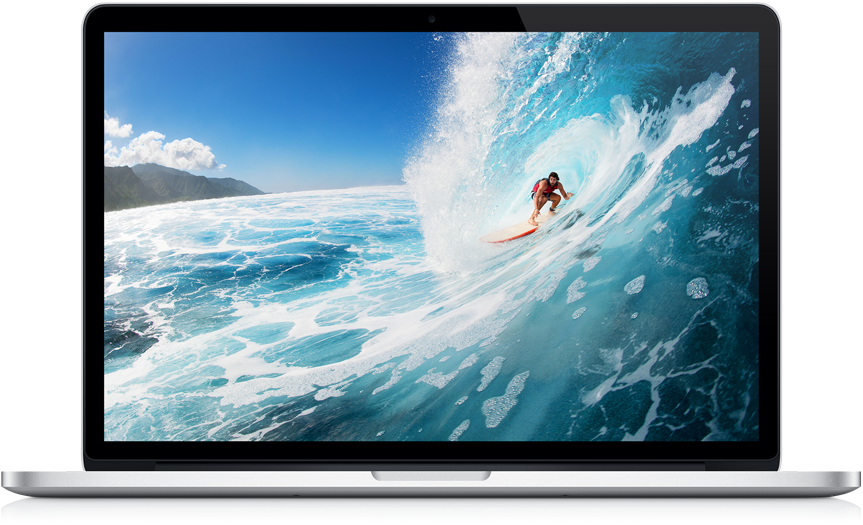
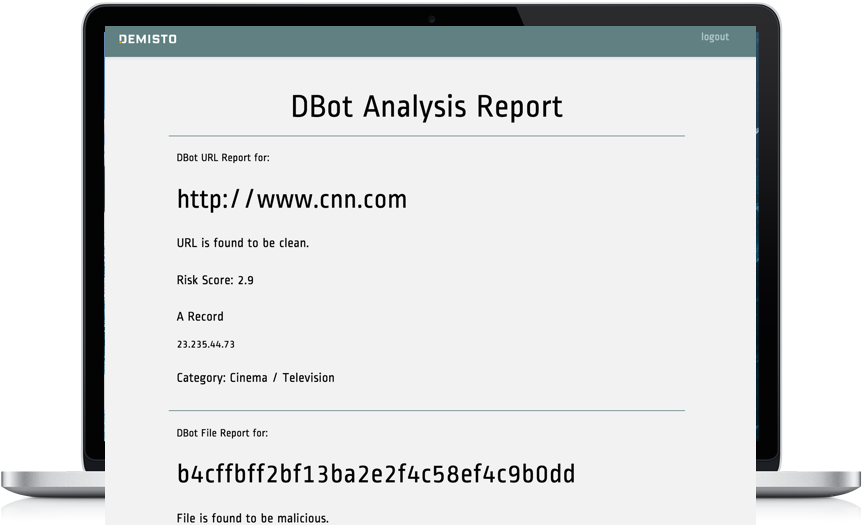
Changes to conf page to have a next step, next page to show confirmation, new screenshot, privacy page and legal. Also installed a new component twitter-bootstrap-wizard. Will use this to create a wizard.

diff --git a/static/master/js/modules/next.js b/static/master/js/modules/next.js
@@ -1,0 +1,94 @@
+(function ($) {
+  'use strict';
+  // Run this only on conf
+  if ($('#next').length) {
+    var regexChannelsMatched = [];
+    var channelsMatched = [];
+    var groupsMatched = [];
+    var allchecked = false;
+    var im = false;
+    $('#closelink').hide();
+
+    var updateChannelList = function() {
+      // update the channels Monitored
+      var mergedList = new Object();
+      var mergedArr = [];
+
+      for (var i = 0; channelsMatched && i<channelsMatched.length; i++) {
+        mergedList[channelsMatched[i]] = true;
+      }
+      for (var i = 0; groupsMatched && i<groupsMatched.length; i++) {
+        mergedList[groupsMatched[i]] = true;
+      }
+      for (var i = 0; regexChannelsMatched && i<regexChannelsMatched.length; i++) {
+        mergedList[regexChannelsMatched[i]] = true;
+      }
+
+      for (var k in mergedList) {
+        mergedArr.push(k);
+      }
+
+      if (allchecked) {
+        $('#channellist').html("<h2>All conversations are now being monitored.</h2>");
+      } else if (mergedArr.length > 0) {
+        $('#channellist').html("<h2>Channels Monitored</h2>");
+        $('#channellist').append(mergedArr.sort().join(", "));
+      } else {
+        $('#channellist').html("<p class='warning-text'>DBOT is not monitoring any conversations. Please <b>select channels</b> to monitor below\
+         or select <b>\'Monitor ALL conversations\'</b> above.</p>");
+      }
+
+
+    }
+
+
+    // Load the channels
+    // TODO - add fail handling
+    $.getJSON('/info', function(data) {
+      $('.ball-grid-pulse').hide();
+      $('#closelink').show();
+
+      for (var i=0; data.channels && i<data.channels.length; i++) {
+        if (data.channels[i].selected)
+          channelsMatched.push(data.channels[i].name)
+      }
+
+      for (var i=0; data.groups && i<data.groups.length; i++) {
+        if (data.groups[i].selected)
+          groupsMatched.push(data.groups[i].name)
+      }
+
+      allchecked = data.all;
+      im = data.im;
+
+      if (data.regexp) {
+        $.ajax({
+          type: 'POST',
+          url: '/match',
+          data: JSON.stringify({regexp: data.regexp}),
+          headers: {'X-XSRF-TOKEN': Cookies.get('XSRF')},
+          dataType: 'json',
+          contentType: 'application/json; charset=utf-8',
+          success: function(data){
+            // $('#regexpChannels').html('Channels Monitored: ' + data.join(', '));
+            regexChannelsMatched = data;
+            updateChannelList();
+          }
+        });
+      }
+
+      updateChannelList();
+
+
+    });
+
+    $.getJSON('/user', function(data) {
+
+      $('#realname').html(data.real_name);
+      $('#useremail').html(data.email);
+      $('#teamname').html('Team: ' + data.team_name);
+
+    });
+
+  }
+})(window.jQuery);

diff --git a/static/master/js/modules/details.js b/static/master/js/modules/details.js
@@ -708,7 +708,7 @@
             else {
               return(
                 <div>
-                DBot encountered an error while trying to serve your request. The issues has been reported and will be analyze.
+                DBot encountered an error while trying to serve your request. The issues has been reported and will be analyzed.
                 Please try to click the link again from Slack interface.
                 <hr></hr>
                 {this.state.errmsg}

diff --git a/static/master/less/components/topbar.less b/static/master/less/components/topbar.less
@@ -26,7 +26,7 @@
       a {
         line-height: 30px;
         font-weight: 400;
-        font-size: 13px;
+        font-size: 15px;
         text-transform: uppercase;
         &:hover {
           color: @gray-darker;
@@ -71,7 +71,7 @@
       a {
         line-height: 30px;
         font-weight: 400;
-        font-size: 13px;
+        font-size: 15px;
         text-transform: uppercase;
         &:hover {
           color: @gray-darker;

diff --git a/static/master/less/components/settings.less b/static/master/less/components/settings.less
@@ -116,6 +116,17 @@
   color: @brand-warning-light;
 }
 
+.config-section table {
+  width:80%;
+}
+
+.next-link {
+  font-size: 45px;
+}
+
+.next-section-img {
+  max-width: 80%;
+}
 /* ========================================================================
    Component: Details
  ========================================================================== */

diff --git a/static/master/js/script.js b/static/master/js/script.js
@@ -204,6 +204,10 @@
     }
   });
 
+  $('#closelink > a').click(function() {
+    window.close();
+  });
+
   window.logout = function() {
     $.getJSON('/logout', function() {
       var loc = window.location;

diff --git a/web/router.go b/web/router.go
@@ -84,6 +84,9 @@ func New(appC *AppContext) *Router {
 	r.Get("/conf", staticHandlers.ThenFunc(pageHandler("/conf.html")))
 	r.Get("/details", staticHandlers.ThenFunc(pageHandler("/details.html")))
 	r.Get("/faq", staticHandlers.ThenFunc(pageHandler("/faq.html")))
+	r.Get("/privacy", staticHandlers.ThenFunc(pageHandler("/privacy.html")))
+	r.Get("/next", staticHandlers.ThenFunc(pageHandler("/next.html")))
+	r.Get("/terms", staticHandlers.ThenFunc(pageHandler("/terms.html")))
 	r.Get("/banned", staticHandlers.ThenFunc(pageHandler("/banned.html")))
 	r.ServeFiles("/css/*filepath", Dir(conf.IsDev(), "/css/"))
 	r.ServeFiles("/img/*filepath", Dir(conf.IsDev(), "/img/"))
